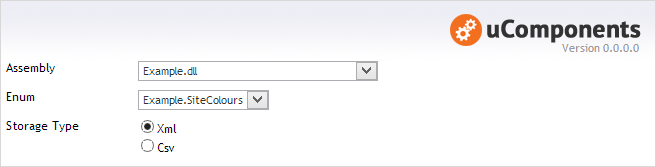
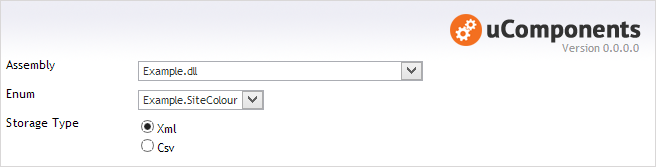
updated enum descriptions

diff --git a/data-types/enum-dropdownlist/index.md b/data-types/enum-dropdownlist/index.md
@@ -18,7 +18,7 @@ retired_version:
 **Default To First Item** : When checked the first item in the enum will be selected, if this option is unchecked, then the first item in the DropDownList will be "Choose...". If this datatype has been set to be mandatory when placed on a document type, then any selection apart from "Choose..." will be valid.
 
   
-## Optional Attributes
+### Optional Enum Attributes
 
 The enum can be decorated with an EnumDropDownListAttribute to configure how the Text and Value fields are are populated, as well as being able to exclude items from the resulting list.
 
@@ -30,7 +30,7 @@ The enum can be decorated with an EnumDropDownListAttribute to configure how the
 
     using uComponents.DataTypes.EnumDropDownList;
 
-    public enum SiteColours
+    public enum SiteColour
     {
         [EnumDropDownList(Enabled = false)]
         Unknown,
@@ -56,6 +56,9 @@ From the example enum above:
 ![Content Editor](DataEditor.png)
 
 
-## uQuery
+## Strongly Typed Model
 
-	SiteColours siteColours = uQuery.GetCurrentNode().GetProperty<SiteColours>("propertyAlias");
+using uQuery the original enum instance can be returned eg.
+
+	SiteColour siteColour = uQuery.GetCurrentNode()
+	                              .GetProperty<SiteColour>("siteColours");

diff --git a/data-types/enum-checkboxlist/index.md b/data-types/enum-checkboxlist/index.md
@@ -3,6 +3,7 @@ layout: datatype
 title: Enum CheckBoxList
 category: Data Types
 description: Use an Enum as the data source for a CheckBoxList.
+status: current
 since_version: 
 retired_version: 
 ---
@@ -19,7 +20,7 @@ retired_version:
 **Storage Type** : Either an Xml fragment, or a CSV.
 
   
-## Optional Attributes
+### Optional Enum Attributes
 
 The enum can be decorated with an optional EnumCheckBoxListAttribute to configure how the Text and Value fields are populated, as well as being able to exclude items from the resulting list.
 
@@ -31,7 +32,7 @@ The enum can be decorated with an optional EnumCheckBoxListAttribute to configur
 
     using uComponents.DataTypes.EnumCheckBoxList;
 
-    public enum SiteColours
+    public enum SiteColour
     {
         [EnumCheckBoxList(Enabled = false)]
         Unknown,
@@ -55,6 +56,9 @@ The enum can be decorated with an optional EnumCheckBoxListAttribute to configur
 From the example enum above:
 
 ![Content Editor](DataEditor.png)
+
+
+
 
 
 
